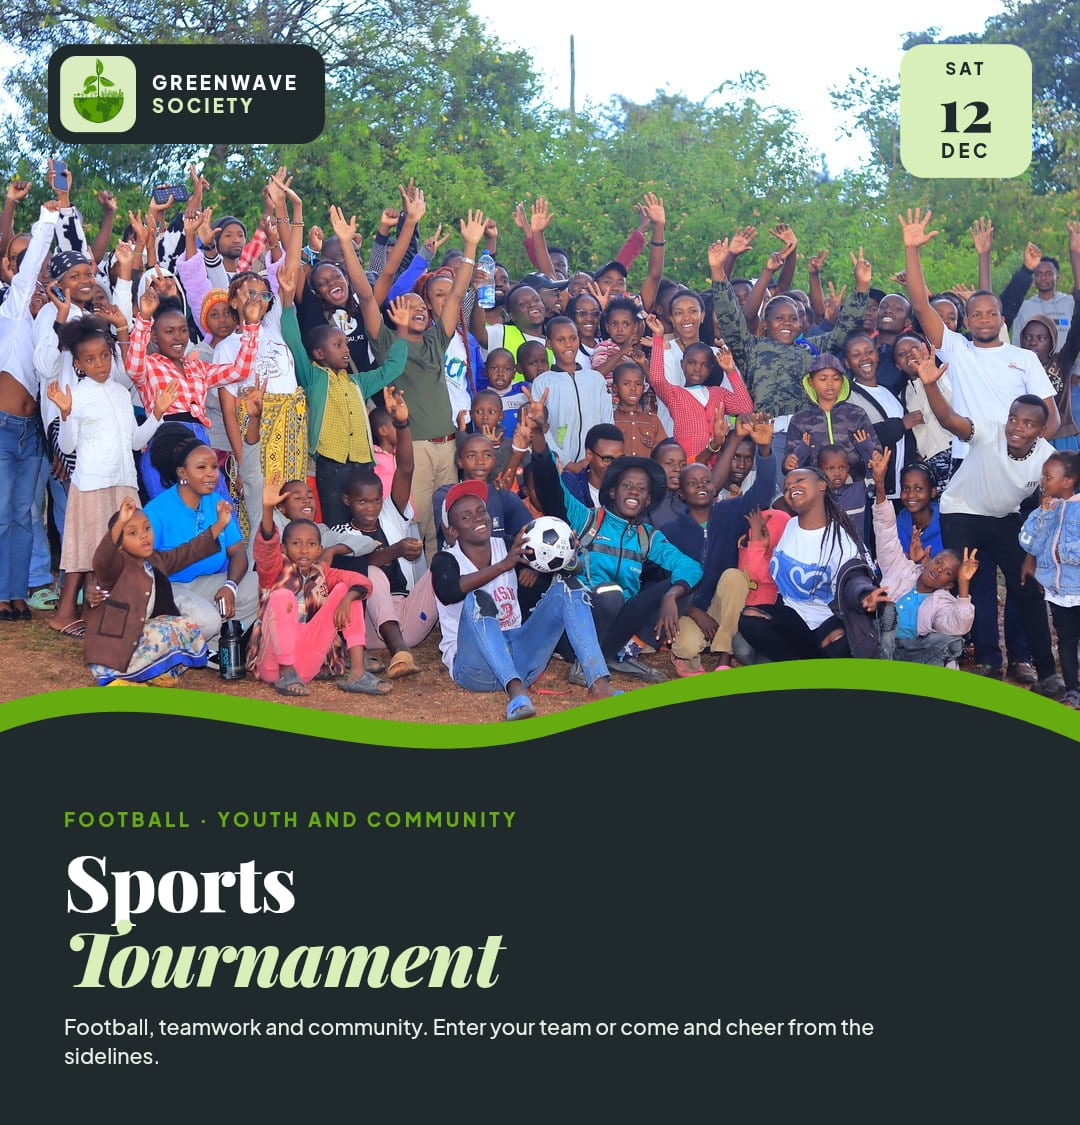
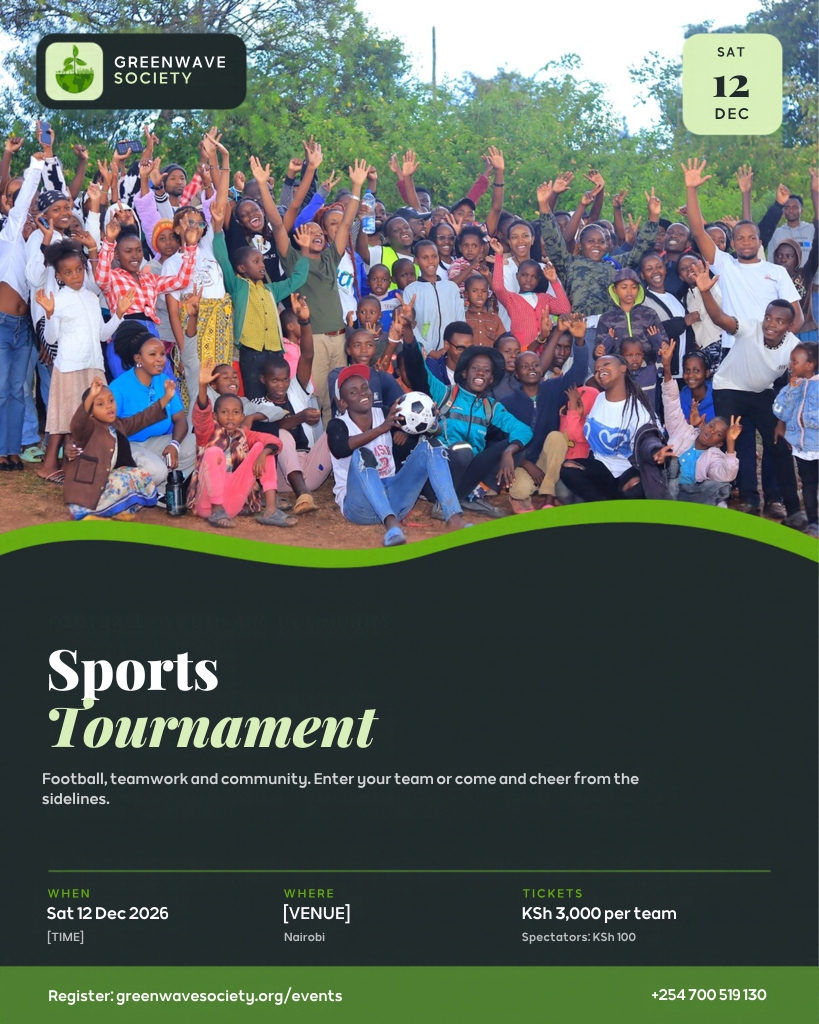
Update Nov-Dec 2026 campaign event posters

diff --git a/src/lib/events/campaign-2026.ts b/src/lib/events/campaign-2026.ts
@@ -82,7 +82,7 @@ Questions: ${CAMPAIGN_CONTACT}`,
 
 // Posters live in public/posters/campaign-2026 and are shown on the event pages.
 export const EVENT_POSTERS: Record<string, { src: string; alt: string }> = {
-  "charity-walk": { src: "/posters/campaign-2026/charity-walk.jpg", alt: "Greenwave Charity Walk poster, Sunday 22 November 2026" },
+  "charity-walk": { src: "/posters/campaign-2026/charity-walk.jpg", alt: "Greenwave Charity Walk poster, Sunday 22 November 2026 (Postponed)" },
   "young-entrepreneurs-networking-brunch": { src: "/posters/campaign-2026/young-entrepreneurs-networking-brunch.jpg", alt: "Young Entrepreneurs Networking Brunch poster, Sunday 29 November 2026, 9:00 AM to 12:00 PM" },
   "skills-for-change-workshop": { src: "/posters/campaign-2026/skills-for-change-workshop.jpg", alt: "Skills for Change Workshop poster, Saturday 5 December 2026" },
   "sports-tournament": { src: "/posters/campaign-2026/sports-tournament.jpg", alt: "Greenwave Sports Tournament poster, Saturday 12 December 2026" },
@@ -92,10 +92,8 @@ export const EVENT_POSTERS: Record<string, { src: string; alt: string }> = {
 const TRIVIA_POSTER = { src: "/posters/campaign-2026/trivia-and-games-night.jpg", alt: "Trivia & Games Night poster, Wednesday 18 November 2026" };
 export const TRIVIA_DATE = "2026-11-18";
 
-// Posters are cropped above the poster's WHEN / WHERE / TICKETS strip (venue and time were
-// placeholders), so they are 1080x1125.
-export const POSTER_WIDTH = 1080;
-export const POSTER_HEIGHT = 1125;
+export const POSTER_WIDTH = 819;
+export const POSTER_HEIGHT = 1024;
 
 /** The campaign poster for an event: by slug, or the hand-made Trivia night by title and date. */
 export function posterFor(event: { slug: string; title: string; startsAt: Date }) {
